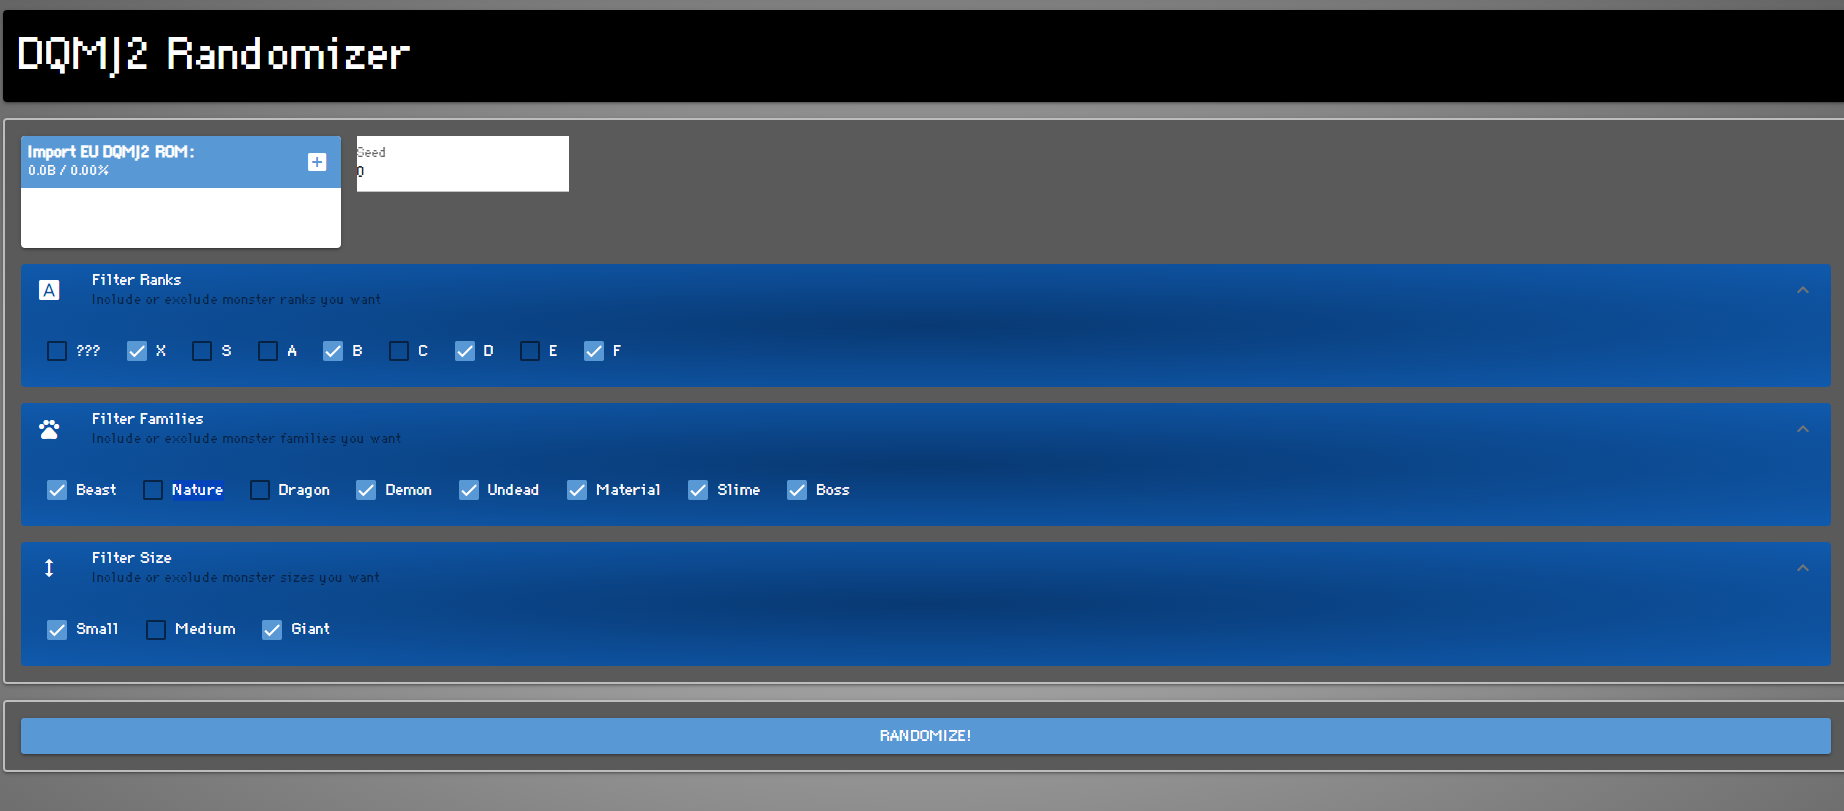
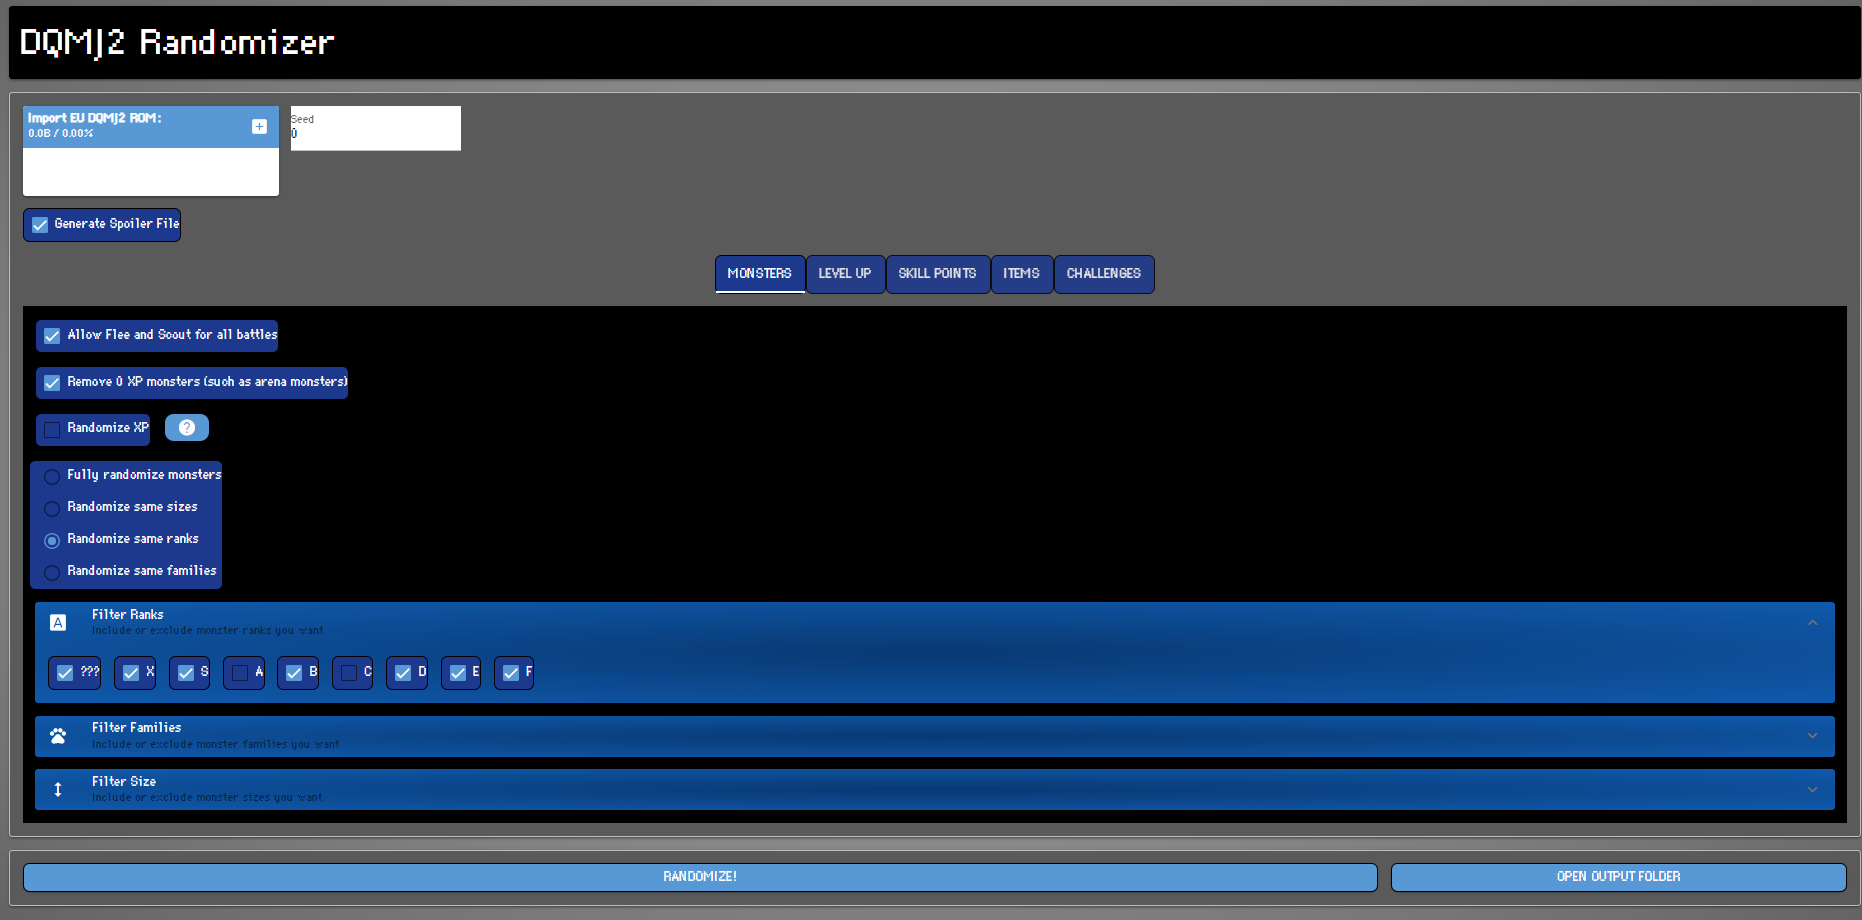
randomization methods + added meddle slime

diff --git a/shuffle.py b/shuffle.py
@@ -119,19 +119,70 @@ def randomize_and_patch(progress_label,randInfo=RandomizationInfo()):
             new_entries=[selected_monsters_info[i]["bin"] for i in range(len(selected_monsters_info))]
         case "size":
             size_pools={"1":[],"2":[],"3":[]}
-            for monster_info in valid_monsters_info:
+            for monster_info in selected_monsters_info:
                 size_pools[monster_info["size"]].append(monster_info)
+            for pool in size_pools:
+                if len(pool)==0:
+                    print("No monsters available! Raising Exception")
+                    raise Exception("no monsters")
+            for i in range(len(entries)):
+                if i in id_valid_indices:
+                    entry_id=int.from_bytes(entries[i][0:2],"little")
+                    monster_info=get_monster_info_by_data(monster_id=entry_id)
+                    if monster_info is None:
+                        new_entries.append(entries[i])
+                        continue
+                    new_monster_info=random.choice(size_pools[monster_info["size"]])
+                    new_entries.append(new_monster_info["bin"])
+                else:
+                    new_entries.append(entries[i])
             
         case "rank":
-            print("")
+            rank_pools={"???":[],"X":[],"S":[],"A":[],"B":[],"C":[],"D":[],"E":[],"F":[],}
+            for monster_info in selected_monsters_info:
+                rank_pools[monster_info["rank"]].append(monster_info)
+            for pool in rank_pools:
+                if len(pool)==0:
+                    print("No monsters available! Raising Exception")
+                    raise Exception("no monsters")
+            for i in range(len(entries)):
+                if i in id_valid_indices:
+                    entry_id=int.from_bytes(entries[i][0:2],"little")
+                    monster_info=get_monster_info_by_data(monster_id=entry_id)
+                    if monster_info is None:
+                        new_entries.append(entries[i])
+                        continue
+                    new_monster_info=random.choice(rank_pools[monster_info["rank"]])
+                    new_entries.append(new_monster_info["bin"])
+                else:
+                    new_entries.append(entries[i])
         case "family":
-            print("")
+            family_pools={"Slime":[],"Dragon":[],"Material":[],"Demon":[],"Beast":[],"Nature":[],"Undead":[],"Boss":[]}
+            for monster_info in selected_monsters_info:
+                family_pools[monster_info["family"]].append(monster_info)
+            for pool in family_pools:
+                if len(pool)==0:
+                    print("No monsters available! Raising Exception")
+                    raise Exception("no monsters")
+            for i in range(len(entries)):
+                if i in id_valid_indices:
+                    entry_id=int.from_bytes(entries[i][0:2],"little")
+                    monster_info=get_monster_info_by_data(monster_id=entry_id)
+                    if monster_info is None:
+                        new_entries.append(entries[i])
+                        continue
+                    new_monster_info=random.choice(family_pools[monster_info["family"]])
+                    new_entries.append(new_monster_info["bin"])
+                else:
+                    new_entries.append(entries[i])
     if(randInfo.generate_spoiler):
         for i in range(len(id_valid_indices)):
-            new_monster=get_monster_info_by_data(monster_id=struct.unpack("<H", new_entries[id_valid_indices[i]][0:2])[0])[ "name" ]
+            new_monster=get_monster_info_by_data(monster_id=struct.unpack("<H", new_entries[id_valid_indices[i]][0:2])[0])
+            if new_monster is None:
+                continue
             original_monster=original_monster_names[i]
             with open(spoiler_file["path"], "a") as f:
-                    f.write(f"Monster {i+1}: {original_monster} -> {new_monster}\n")
+                    f.write(f"Monster {i+1}: {original_monster} -> {new_monster['name']}\n")
         with open(spoiler_file["path"], "a") as f:
             f.write("\n------\n")
     

diff --git a/main.py b/main.py
@@ -65,6 +65,18 @@ def change_skill_point_mode(radio_value):
             randInfo.skill_points_mode={"random":""}
     print("Current Skill Point Mode="+str(randInfo.skill_points_mode))
 
+def change_monster_randomization_method(radio_value):
+    match radio_value.value:
+        case 1:
+            randInfo.monster_rand_method="random"
+        case 2:
+            randInfo.monster_rand_method="size"
+        case 3:
+            randInfo.monster_rand_method="rank"
+        case 4:
+            randInfo.monster_rand_method="family"
+    print("Current Monster Randomization Method="+str(randInfo.monster_rand_method))
+
 def change_item_mode(value):
     if value == True:
         randInfo.item_mode={"swap":""}
@@ -182,6 +194,8 @@ def monsters_tab(monsters):
                                                                          "1 000 to 10 000 XP => 10%",
                                                                          "10 000 to 100 000 XP => 5%",
                                                                          "100 000 to 333 333 XP => 1%"])).classes(STYLES["dqmj2-button"]+" rounded-xl")
+                ui.radio({1: 'Fully randomize monsters', 2: 'Randomize same sizes', 3: 'Randomize same ranks',4:'Randomize same families'},
+                value=2,on_change=lambda e:change_monster_randomization_method(e)).classes("bg-blue-900 text-white rounded-lg border-2 border-black")
                 with ui.expansion('Filter Ranks', icon='font_download',caption="Include or exclude monster ranks you want").classes('w-full section-banner text-white rounded'):
                     with ui.row().classes('w-full'):
                         ui.checkbox("???", value=True, on_change=lambda e: change_filter("rank","???")).classes(STYLES["dqmj2-button"])

diff --git a/randomInfo.py b/randomInfo.py
@@ -6,7 +6,7 @@ class RandomizationInfo:
         self.seed=0
         self.generate_spoiler=True
         self.mods=["always_flee"]
-        self.monster_rand_method="random"
+        self.monster_rand_method="size"
         self.level_up_mode={}
         self.skill_points_mode={}
         self.item_mode={}

diff --git a/README.md b/README.md
@@ -35,29 +35,55 @@ Also for now it only works with EU versions of DQMJ2.
 
 ## ✨Features
 
-- Seed : choose the seed used for randomization. If none,then a random one will be choosed.
+- Seed : choose the seed used for randomization. If none,then a random one will be choosed !
 
-- Monster randomization: randomize monsters encounters.
+- Monster randomization: randomize monsters encounters !
+  
+  - Fully randomize
+  
+  - Randomize same sizes
+  
+  - Randomize same ranks
+  
+  - Randomize same families
 
-- Rank filtering : choose which monsters can appear based on selected ranks.
+- Monster filtering: filter randomized monsters by criterias !
+  
+  - Rank filtering
+  
+  - Family filtering
+  
+  - Size filtering
 
-- Family filtering: choose which monsters can appear based on selected families.
+- Flee and Scout : enable flee and scout for all battles !
 
-- Size filtering: choose which monsters can appear based on selected sizes.
+- Spoiler file: generate a .txt file containing resulting randomization data !
 
-- XP randomization: randomize XP given by each monster.
+- Level Up XP randomization or swap (XP curves): randomize XP required for gaining levels !
+  
+  - Swap level up curves
+  
+  - Randomize level up XP by variation (110 to 200%)
 
-- Level Up XP randomization or swap (XP curves): randomize XP required for gaining levels.
+- Skill Point Randomization: randomize skill points given after level up!
+  
+  - Swap skill points levels
+  
+  - Randomize skill points
+
+- Item Randomization: randomize what items do!
 
 - Challenges:
   
   - No flee : Make it impossible to flee any battle!
   
-  - Stronger monsters : Every enemy monster receive a 50% stats raise (HP,MP,ATK,DEF,AGI,WIS)
+  - Stronger monsters : Every enemy monster receive a 50% stats raise !(HP,MP,ATK,DEF,AGI,WIS)
 
 - Other features coming soon!
 
 ## 🚨Important notes
+
+
 
 In most cases, even if big monsters overlap other slots, it isn't an issue since the game can handle it, despite being a visual mess. But there is a few cases where a specific configuration might be problematic because when you're attacking enemies the game will crash.I noticed that when it happens there is always a giant monster involved. Hopefully I found a turnaround : battling with only one monster will give game enough memory space to not crash.
 
